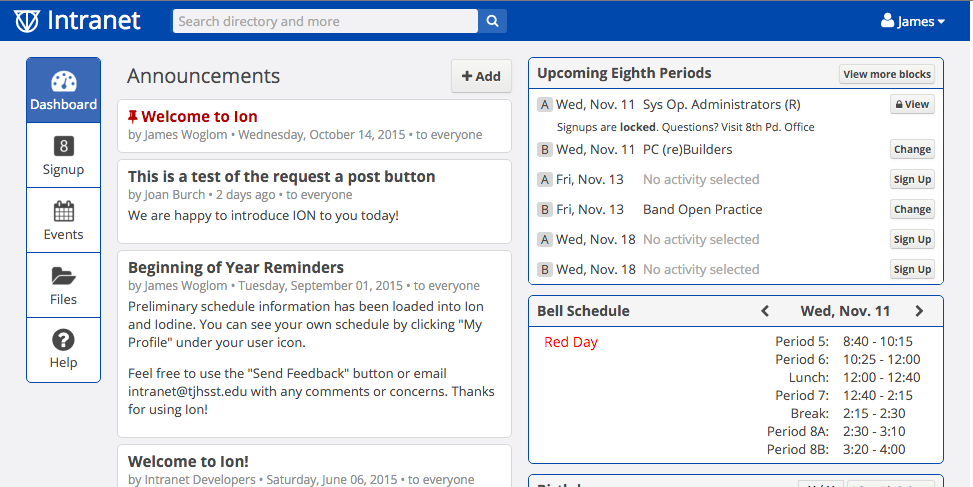
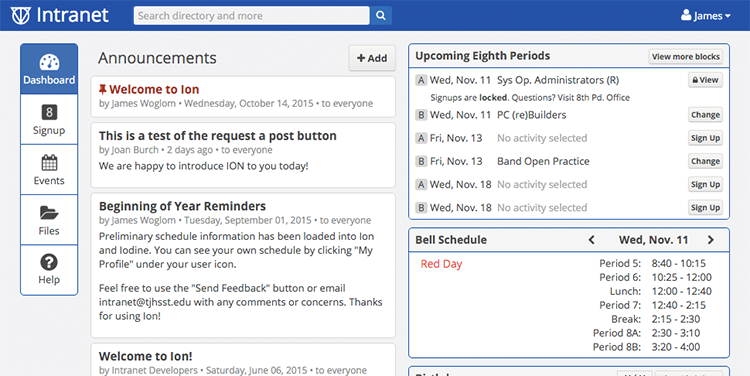
rework student welcome

diff --git a/intranet/templates/welcome/student.html b/intranet/templates/welcome/student.html
@@ -26,31 +26,44 @@
         padding: 5px 10px;
     }
 
-    img.mobile {
-        zoom: 0.6;
-    }
 
     .mobile-only {
         display: none;
     }
 
-    @media (max-width: 750px) {
-        img.mobile {
-            margin-left: -250px;
-        }
+    .eighth-mobile {
+        padding: 10px;
+    }
 
-        .mobile-only img.mobile {
-            margin-left: 0;
+    @media (max-width: 930px) {
+        .desktop {
+            zoom: 0.85;
         }
     }
 
-    @media (max-width: 600px) {
-        img.desktop {
-            zoom: 0.9;
+    @media (max-width: 848px) {
+        .desktop {
+            zoom: 0.75;
         }
 
-        img.mobile {
-            zoom: 0.5;
+        .mobile {
+            zoom: 0.85;
+        }
+    }
+
+    @media (max-width: 760px) {
+        .eighth-mobile {
+            float: none;
+        }
+
+        .eighth-mobile-detail {
+            display: none;
+        }
+    }
+
+    @media (max-width: 681px) {
+        .dashboard-desktop {
+            zoom: 0.57;
         }
     }
 
@@ -59,16 +72,26 @@
             display: none;
         }
 
-        img.mobile {
-            zoom: 0.75;
-            margin-left: 0;
-        }
-
         .mobile-only {
             display: inline;
         }
 
         .desktop-only {
+            display: none;
+        }
+
+        .eighth-mobile-detail {
+            display: block;
+        }
+
+        img.mobile {
+            float: none;
+            display: block;
+            margin-left: auto;
+            margin-right: auto;
+        }
+
+        .brs {
             display: none;
         }
     }
@@ -142,47 +165,74 @@
         </h2>
 
         
+        <div>
 
-        <div class="mobile-only">
-            <p>Good news! Intranet is now fully optimized for small screens. To access navigation items and the search bar, press the icon on the top left of the page next to the Intranet logo. On the Eighth Period page, click the arrow to hide or unhide the schedule.</p>
-            <img src="{% static 'img/promo/nav-mobile.png' %}" class="mobile" />
+            <img src="{% static 'img/promo/dashboard-student-mobile.png' %}" alt="Dashboard page, mobile" class="mobile" align="left" style="padding: 10px" />
+            <br />
+            <div class="brs">
+                <br />
+                <br />
+                <br />
+            </div>
+            <img src="{% static 'img/promo/dashboard-student-menu-mobile.png' %}" alt="Dashboard page, mobile" class="mobile" align="right" style="padding: 10px" />
+            <br />
+            <div class="mobile-only">
+                <p>Good news! Intranet is now fully optimized for small screens. To access navigation items and the search bar, press the icon on the top left of the page next to the Intranet logo. On the Eighth Period page, click the arrow to hide or unhide the schedule.</p>
+            </div>
+
+            <div class="desktop-only">
+                <p>The largest change to Intranet is that it is now fully optimized for small screens. On your phone, tablet, or other mobile device, simply visit <a href="https://ion.tjhsst.edu" target="_blank">ion.tjhsst.edu</a>. To access navigation items and the search bar, press the icon on the top left of the page next to the Intranet logo.</p>
+            </div>
+        <br />
+        <div class="brs">
+            <br />
             <br />
         </div>
-
-        <div class="desktop-only">
-            <p>The largest change to Intranet is that it is now fully optimized for small screens. On your phone, tablet, or other mobile device, simply visit <a href="https://ion.tjhsst.edu" target="_blank">ion.tjhsst.edu</a>. To access navigation items and the search bar, press the icon on the top left of the page next to the Intranet logo.</p>
-            <br />
-        </div>
-
         <p>After logging in, you will reach the dashboard. This page shows, at a glance, new announcements for you and the TJ community as well as your current eighth period signups. To sign up for a block of eighth period, click the "Sign Up" button on the widget. If you have already selected an activity for this block, you may select "Change."</p>
-        <img src="{% static 'img/promo/dashboard.png' %}" alt="Dashboard page" class="desktop" />
-        <img src="{% static 'img/promo/dashboard-mobile.png' %}" alt="Dashboard page, mobile" class="mobile" />
 
-        <br />
-        <br />
+        
+        <center>
+            <img src="{% static 'img/promo/dashboard-student.png' %}" alt="Dashboard page" class="desktop dashboard-desktop" />
+        </center>
+
+        
         <br />
 
+            <img src="{% static 'img/promo/eighth-student-list-mobile.png' %}" alt="Eighth Period signup page" class="mobile eighth-mobile" align="left" />
+        <div class="eighth-text">
+        <br />
         <p>This will take you to the Eighth Period homepage. On the top, you will see a listing showing all of the days containing a block of Eighth Period. Click on a block listed there to change the day you are viewing activities for.</p>
         <p>On the left side of the screen, you will see a listing of all the eighth period activities scheduled. To search for a specific activity, use the search box above the listing.</p>
-        <p>To view more information about an activity, click on its name. More details about it will appear on the right. Buttons will appear that will allow you to "View Roster" or "Sign Up," if you are able. Some activities are restricted to certain groups, some are cancelled, and some fill up rather quickly. If you are unable to choose an activity to sign up for, a message will appear with an explanation.</p>
-        <img src="{% static 'img/promo/eighth-signup.png' %}" alt="Eighth Period signup page" class="desktop" />
-        <img src="{% static 'img/promo/eighth-signup-list-mobile.png' %}" alt="Eighth Period signup page" class="mobile" />
-        <img src="{% static 'img/promo/eighth-signup-mobile.png' %}" alt="Eighth Period signup information" class="mobile mobile-only" />
-        
-        <br />
-        <br />
-        <br />
 
-        <p>To access the student/faculty directory and look up a user, enter a search query on the bar at the top of the page. This will show a list of all the users that matched your query.</p>
-        <img src="{% static 'img/promo/search.png' %}" alt="Student directory searching" class="desktop" />
+        <p>To view more information about an activity, click on its name. More details about it will appear on the right. Buttons will appear that will allow you to "View Roster" or "Sign Up," if you are able. Some activities are restricted to certain groups, some are cancelled, and some fill up rather quickly. If you are unable to choose an activity to sign up for, a message will appear with an explanation.</p>
+        </div>
+        <img src="{% static 'img/promo/eighth-student-signup-mobile.png' %}" alt="Eighth Period signup information" class="mobile eighth-mobile eighth-mobile-detail" align="left" style="clear: left" />
+
+        <center>
+            <img src="{% static 'img/promo/eighth-student-list.png' %}" alt="Eighth Period signup page" class="desktop" />
+        </center>
         
-        <div class="desktop-only">
+        
+        
+        <br />
+        <div class="brs">
             <br />
             <br />
         </div>
 
-        <p>After selecting a user, you will be able to view their user page. If the user is a teacher, you will be able to see their class schedule, including which rooms they teach in during the day. If the user is a student, you will be able to view their student picture, emails, address, class schedule, and eighth period signups. However, some students restrict public access to this information, and information that has been hidden will not be visible to you. You also have the capability to restrict other students from viewing your information; visit the Preferences page to see what information others can view about you.</p>
-        <img src="{% static 'img/promo/profile.png' %}" alt="Student profile" class="desktop" />
+        <p>To access the student/faculty directory and look up a user, enter a search query on the bar at the top of the page. This will show a list of all the users that matched your query.</p>
+        <br />
+        <img src="{% static 'img/promo/search-results.png' %}" alt="Student directory searching" class="desktop" align="right" />
+        <br />
+        <div class="brs">
+            <br />
+            <br />
+            <br />
+            <br />
+            <br />
+        </div>
+        <p>After selecting a user, you will be able to view their personal information, class, and eighth period schedule, if they have decided to share this information publicly. You also have the capability to restrict other students from viewing your information; visit the Preferences page to change what others can see on your profile.</p>
+        <img src="{% static 'img/promo/profile.png' %}" alt="Student profile" class="desktop" float="left" />
 
         <span id="about-intranet" name="about-intranet"></span>
         <br />

diff --git a/intranet/templates/search/search_results.html b/intranet/templates/search/search_results.html
@@ -15,6 +15,9 @@
 
 {% block main %}
 <div class="primary-content">
+{% if "tips" in request.GET or query_error or not search_query %}
+    {% include "search/tips.html" %}
+{% else %}
     <h2>Search Results</h2>
     <!--
     <form class="search" action="{% url 'search' %}" method="get" autocomplete="off">
@@ -144,65 +147,8 @@
             <b>No results.</b>
         {% endif %}
     {% endif %}
-
-
-    {% if "tips" in request.GET or query_error or not search_query %}
-        <h3>Advanced Search Tips</h3>
-
-        <p>
-            <b>Searchable Fields</b>
-            <ul>
-                <li><em>name</em></li>
-                <li><em>first</em></li>
-                <li><em>last</em></li>
-                <li><em>middle</em></li>
-                <li><em>nickname</em></li>
-                <li><em>id</em> (e.g. 31863)</li>
-                <li><em>username</em> (e.g. 2015elowman)</li>
-                <li><em>gradyear</em> (e.g. 2015)</li>
-                <li><em>grade</em> (9-12)</li>
-                <li><em>sex</em></li>
-                <li><em>phone</em></li>
-                <li><em>zip</em></li>
-                <li><em>city</em></li>
-                <li><em>address</em></li>
-                <li><em>email</em></li>
-            </ul>
-        </p>
-        <p>
-            <b>Examples</b>
-            <ul>
-                <li>
-                    To find all members of the class of 2016:
-                    <br>
-                    <em class="search-example">gradyear:2016</em>
-                </li>
-                <li>
-                    To find all females:
-                    <br>
-                    <em class="search-example">sex:female</em>
-                </li>
-                <li>
-                    To find all males in the class of 2016:
-                    <br>
-                    <em class="search-example">gradyear:2016 sex:male</em>
-                </li>
-                <li>
-                    To find senior girls with first names containing "an" followed by "a":
-                    <br>
-                    <em class="search-example">first:an*a sex:female grade:12</em>
-                </li>
-                <li>
-                    To find juniors who live in Falls Church <i>(use "*" in place of spaces)</i>:
-                    <br>
-                    <em class="search-example">city:falls*church grade:11</em>
-                </li>
-            </ul>
-        </p>
-
-    {% else %}
         <br><br>
         <a href="{% url 'search' %}?tips">Advanced Search Tips</a>
-    {% endif %}
+{% endif %}
 </div>
 {% endblock %}

diff --git a/intranet/templates/search/tips.html b/intranet/templates/search/tips.html
@@ -1,0 +1,52 @@
+<h3>Advanced Search Tips</h3>
+
+<p>
+    <b>Searchable Fields</b>
+    <ul>
+        <li><em>name</em></li>
+        <li><em>first</em></li>
+        <li><em>last</em></li>
+        <li><em>middle</em></li>
+        <li><em>nickname</em></li>
+        <li><em>id</em> (e.g. 31863)</li>
+        <li><em>username</em> (e.g. 2015elowman)</li>
+        <li><em>gradyear</em> (e.g. 2015)</li>
+        <li><em>grade</em> (9-12)</li>
+        <li><em>sex</em></li>
+        <li><em>phone</em></li>
+        <li><em>zip</em></li>
+        <li><em>city</em></li>
+        <li><em>address</em></li>
+        <li><em>email</em></li>
+    </ul>
+</p>
+<p>
+    <b>Examples</b>
+    <ul>
+        <li>
+            To find all members of the class of 2016:
+            <br>
+            <em class="search-example">gradyear:2016</em>
+        </li>
+        <li>
+            To find all females:
+            <br>
+            <em class="search-example">sex:female</em>
+        </li>
+        <li>
+            To find all males in the class of 2016:
+            <br>
+            <em class="search-example">gradyear:2016 sex:male</em>
+        </li>
+        <li>
+            To find senior girls with first names containing "an" followed by "a":
+            <br>
+            <em class="search-example">first:an*a sex:female grade:12</em>
+        </li>
+        <li>
+            To find juniors who live in Falls Church <i>(use "*" in place of spaces)</i>:
+            <br>
+            <em class="search-example">city:falls*church grade:11</em>
+        </li>
+    </ul>
+</p>
